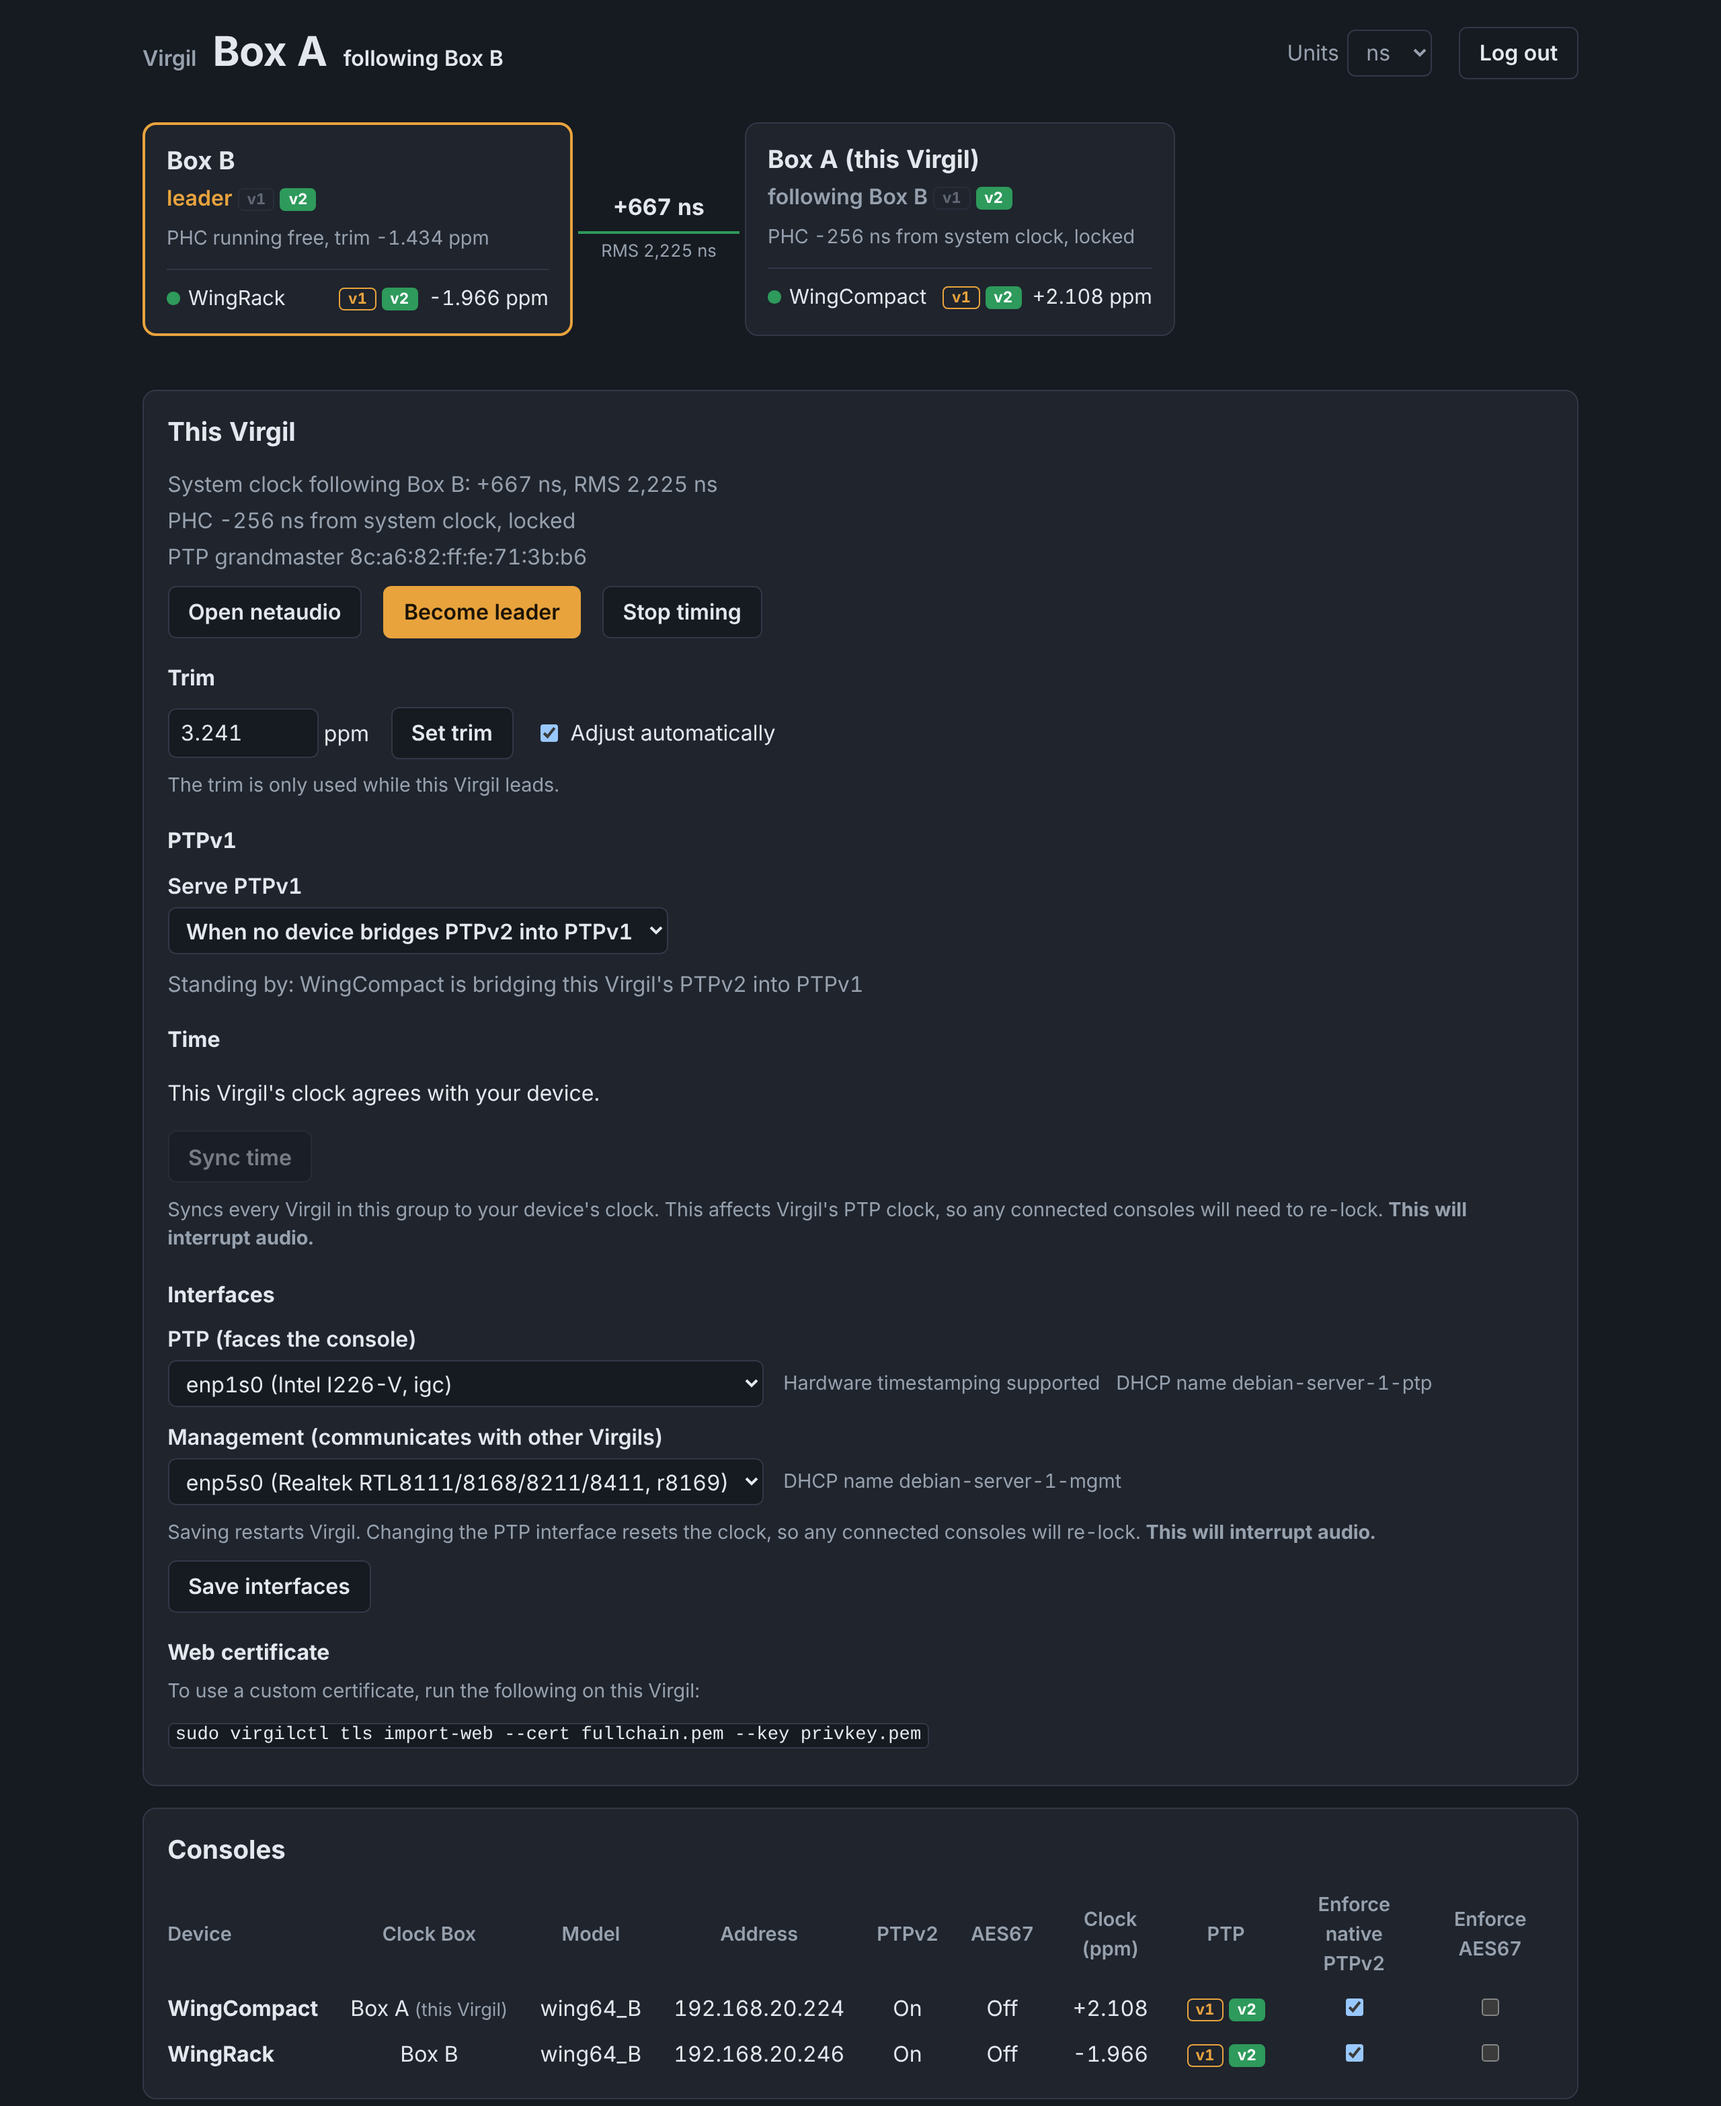
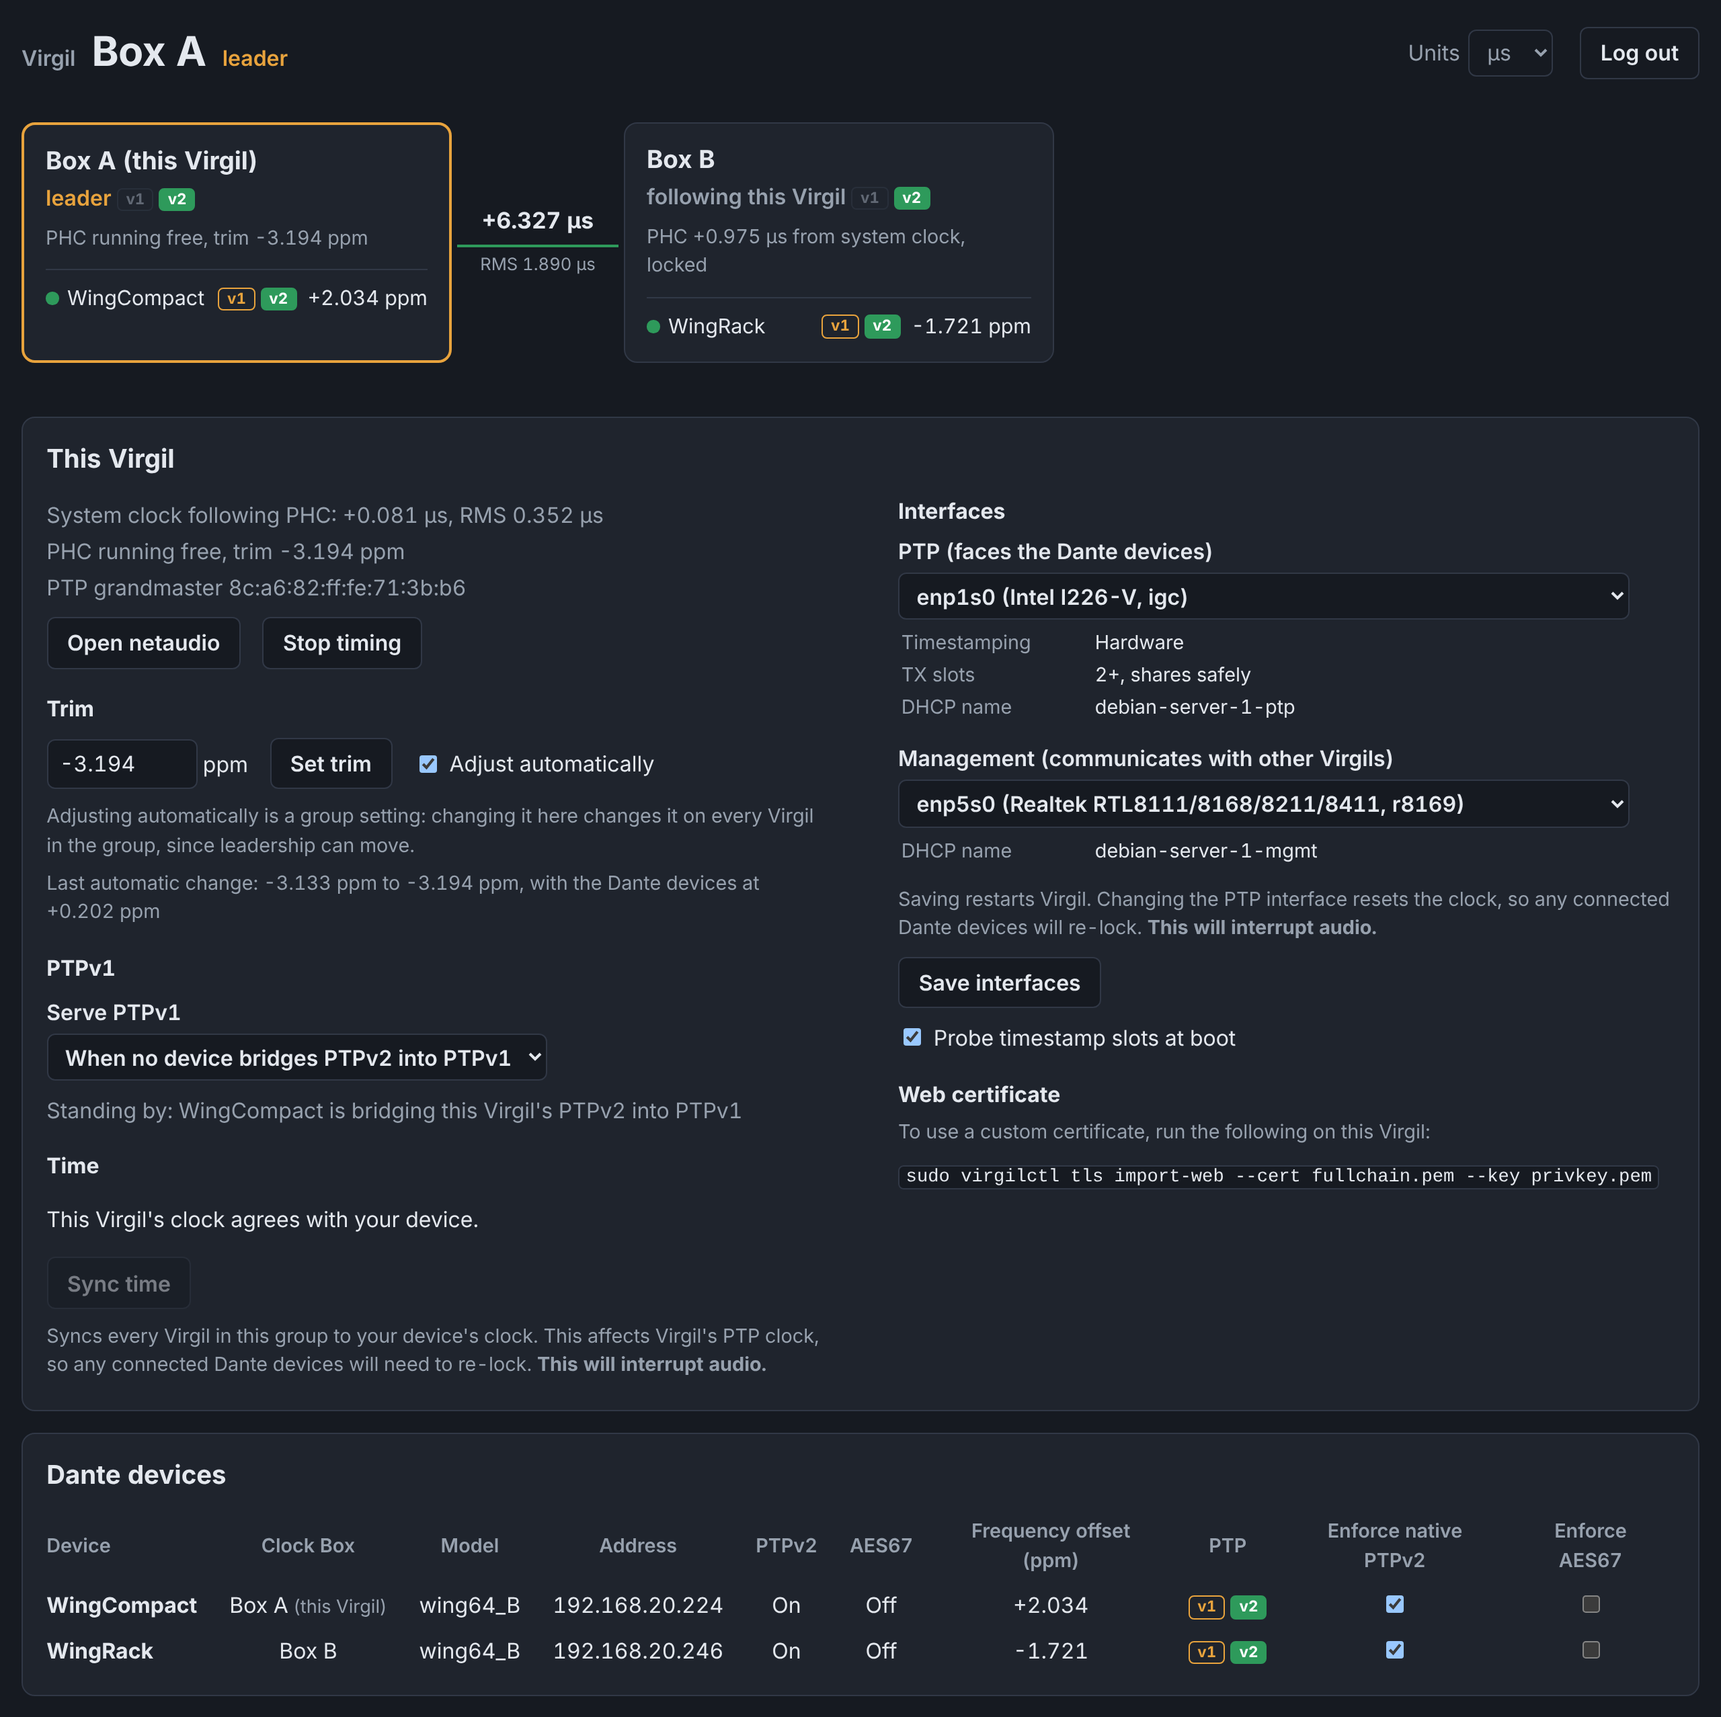
Changed name of a column in stats, add summary view to README

diff --git a/src/virgil/web/app.js b/src/virgil/web/app.js
@@ -404,7 +404,7 @@ function devicesTable(entries, can) {
   const header = el("tr", {},
     el("th", { scope: "col", class: "name" }, "Device"),
     el("th", { scope: "col", title: "The Clock Box it's plugged into, which keeps its settings" }, "Clock Box"),
-    ["Model", "Address", "PTPv2", "AES67", "Clock (ppm)"].map((h) => el("th", { scope: "col" }, h)),
+    ["Model", "Address", "PTPv2", "AES67", "Frequency offset (ppm)"].map((h) => el("th", { scope: "col" }, h)),
     el("th", { scope: "col", title: "What it's doing on each PTP version" }, "PTP"),
     Object.values(ENFORCE).map((e) => el("th", { scope: "col", title: enforceTip(e.name) }, e.heading)));
   const rows = entries.map(({ d, box, settings }) => {
@@ -430,7 +430,7 @@ function devicesTable(entries, can) {
       el("td", { "data-label": "Address" }, d.address),
       el("td", { "data-label": "PTPv2" }, onOff(d.ptpv2)),
       el("td", { "data-label": "AES67" }, onOff(d.aes67)),
-      el("td", { "data-label": "Clock (ppm)" }, d.clock_offset_ppb === null || d.clock_offset_ppb === undefined
+      el("td", { "data-label": "Frequency offset (ppm)" }, d.clock_offset_ppb === null || d.clock_offset_ppb === undefined
         ? "" : ppmValue(d.clock_offset_ppb)),
       el("td", { "data-label": "PTP" }, deviceBadges(d) || ""),
       enforce("ptpv2", wanted.native_ptpv2),

diff --git a/README.md b/README.md
@@ -34,6 +34,8 @@ Virgil does all of that for you. Install it on each Clock Box, put them in a gro
 
 ![Graphs of clock offsets, receive latency, late packets and the link](docs/images/graphs.png)
 
+![A logging session's summary: every measurement from a night, at a glance](docs/images/summary.png)
+
 ## How it works
 
 ```
